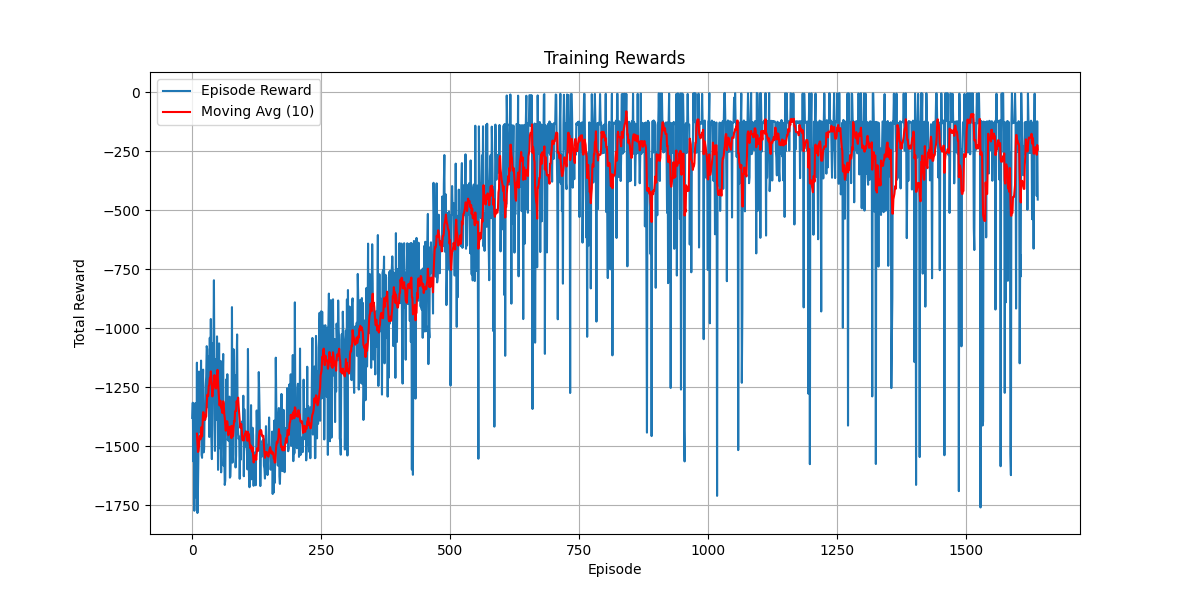
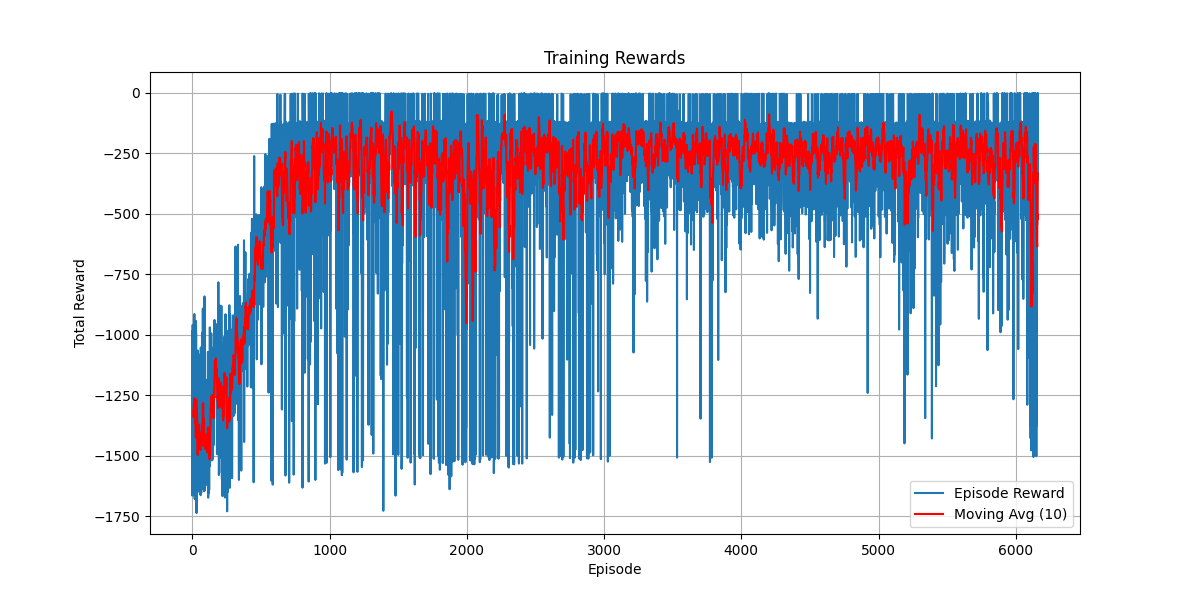
ddpg v2.1

diff --git a/test/test_ddpg.py b/test/test_ddpg.py
@@ -15,8 +15,8 @@ import matplotlib.pyplot as plt
 from IPython.display import clear_output
 import time
 
-def make_env(env_name):
-    env = gym.make(env_name)
+def make_env(env_name, render_mode="rgb_array"):
+    env = gym.make(env_name, render_mode=render_mode)
     env = ObservationWrapper(env)
     if isinstance(env.action_space, gym.spaces.Dict):
         env = DictActionWrapper(env)
@@ -42,7 +42,7 @@ def plot_rewards(episode_rewards, window_size=10):
     plt.savefig('ddpg_training_rewards.png')
     plt.close()
 
-def test_run(env_name="Pendulum-v1", num_episodes=10000, render_freq=50, plot_freq=10, save_freq=100):
+def test_run(env_name="Pendulum-v1", num_episodes=10000, plot_freq=10, save_freq=1000):
     # Initialize
     config = Config()
     env = make_env(env_name)
@@ -85,18 +85,7 @@ def test_run(env_name="Pendulum-v1", num_episodes=10000, render_freq=50, plot_fr
         steps = 0
         episode_loss = []
         
-        # 是否渲染这一集
-        should_render = (episode % render_freq == 0)
-        
-        while not done:
-            # 渲染环境（如果需要）
-            if should_render:
-                try:
-                    env.render()
-                except:
-                    # 某些环境可能不支持渲染
-                    pass
-            
+        while not done:            
             # Select action with noise (exploration)
             epsilon = max(0.01, 1.0 - episode/200)  # 衰减的探索率
             action = agent.act(state, epsilon=epsilon)

diff --git a/configs/ddpg_config.py b/configs/ddpg_config.py
@@ -33,7 +33,7 @@ class AgentConfig:
     gamma: float = 0.99      # 折扣因子
     rep_lr: float = 1e-3     # 降低表示层学习率
     actor_lr: float = 1e-2   # 降低Actor学习率
-    critic_lr: float = 3e-2  # 降低Critic学习率，与actor保持一致
+    critic_lr: float = 3e-2  # 降低Critic学习率
     tau: float = 0.01       # 降低软更新系数，更加稳定
     update_every: int = 50   # 减少目标网络更新频率
     noise_scale: float = 1.0 # 噪声缩放因子

diff --git a/test/test_cuda.py b/test/test_cuda.py
@@ -1,0 +1,11 @@
+import torch
+print(f"PyTorch版本: {torch.__version__}")
+print(f"CUDA是否可用: {torch.cuda.is_available()}")
+if torch.cuda.is_available():
+    print(f"CUDA设备数量: {torch.cuda.device_count()}")
+    print(f"当前CUDA设备: {torch.cuda.current_device()}")
+    print(f"CUDA设备名称: {torch.cuda.get_device_name(0)}")
+    
+    # 简单的GPU测试
+    x = torch.rand(5, 3).cuda()
+    print(f"张量在GPU上: {x.is_cuda}")
